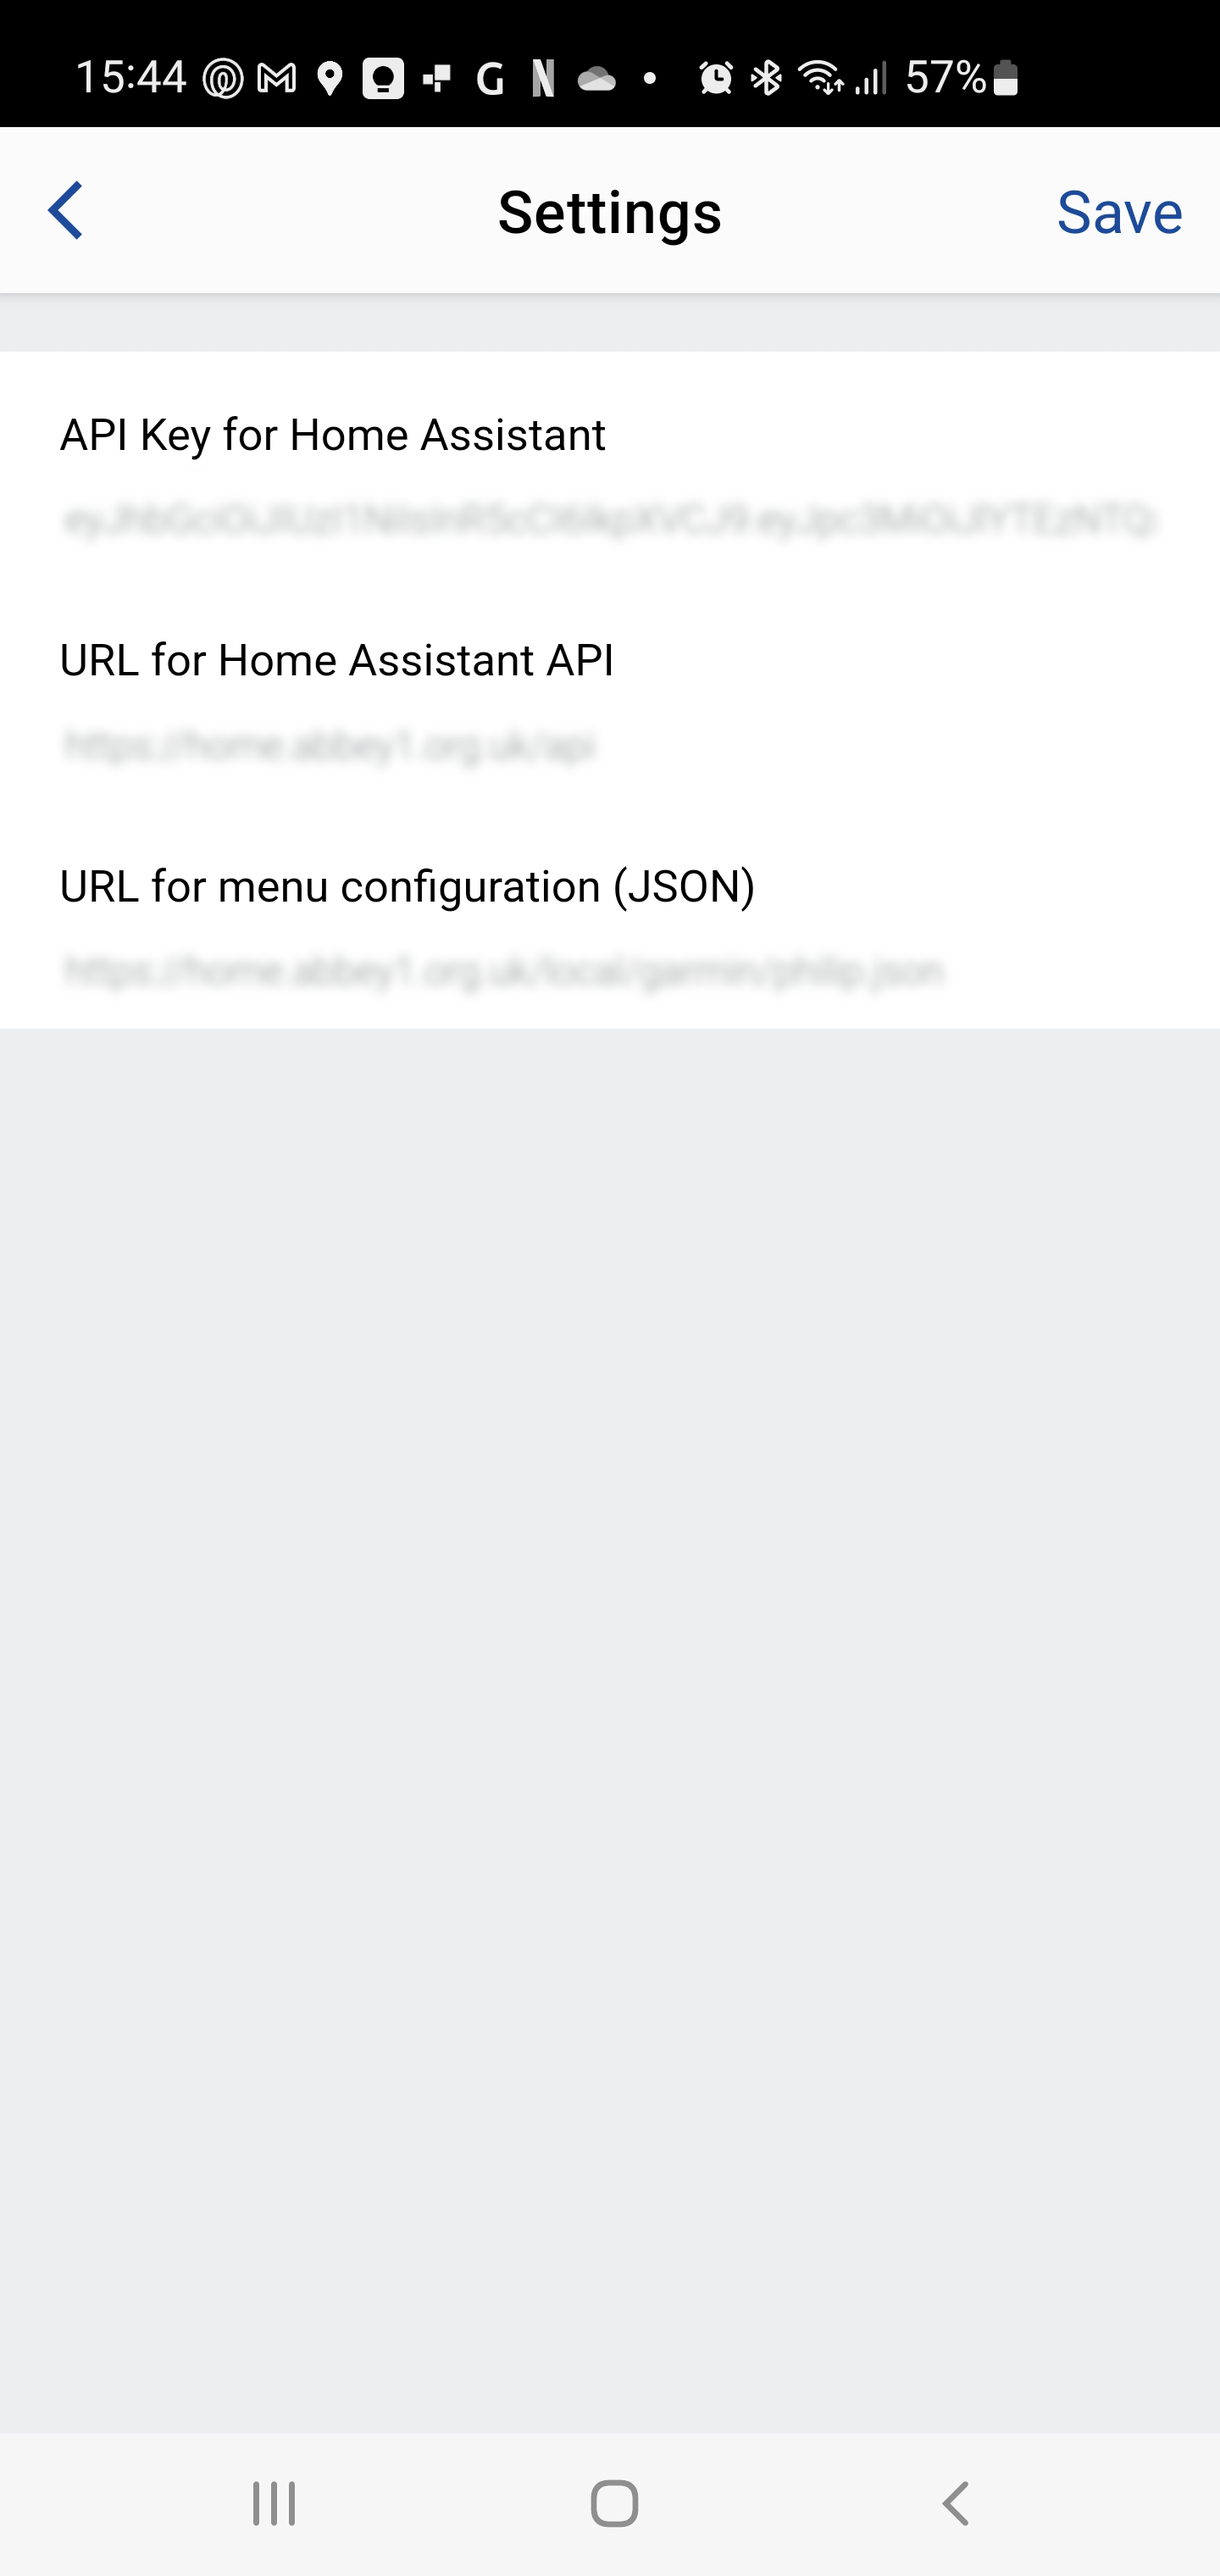
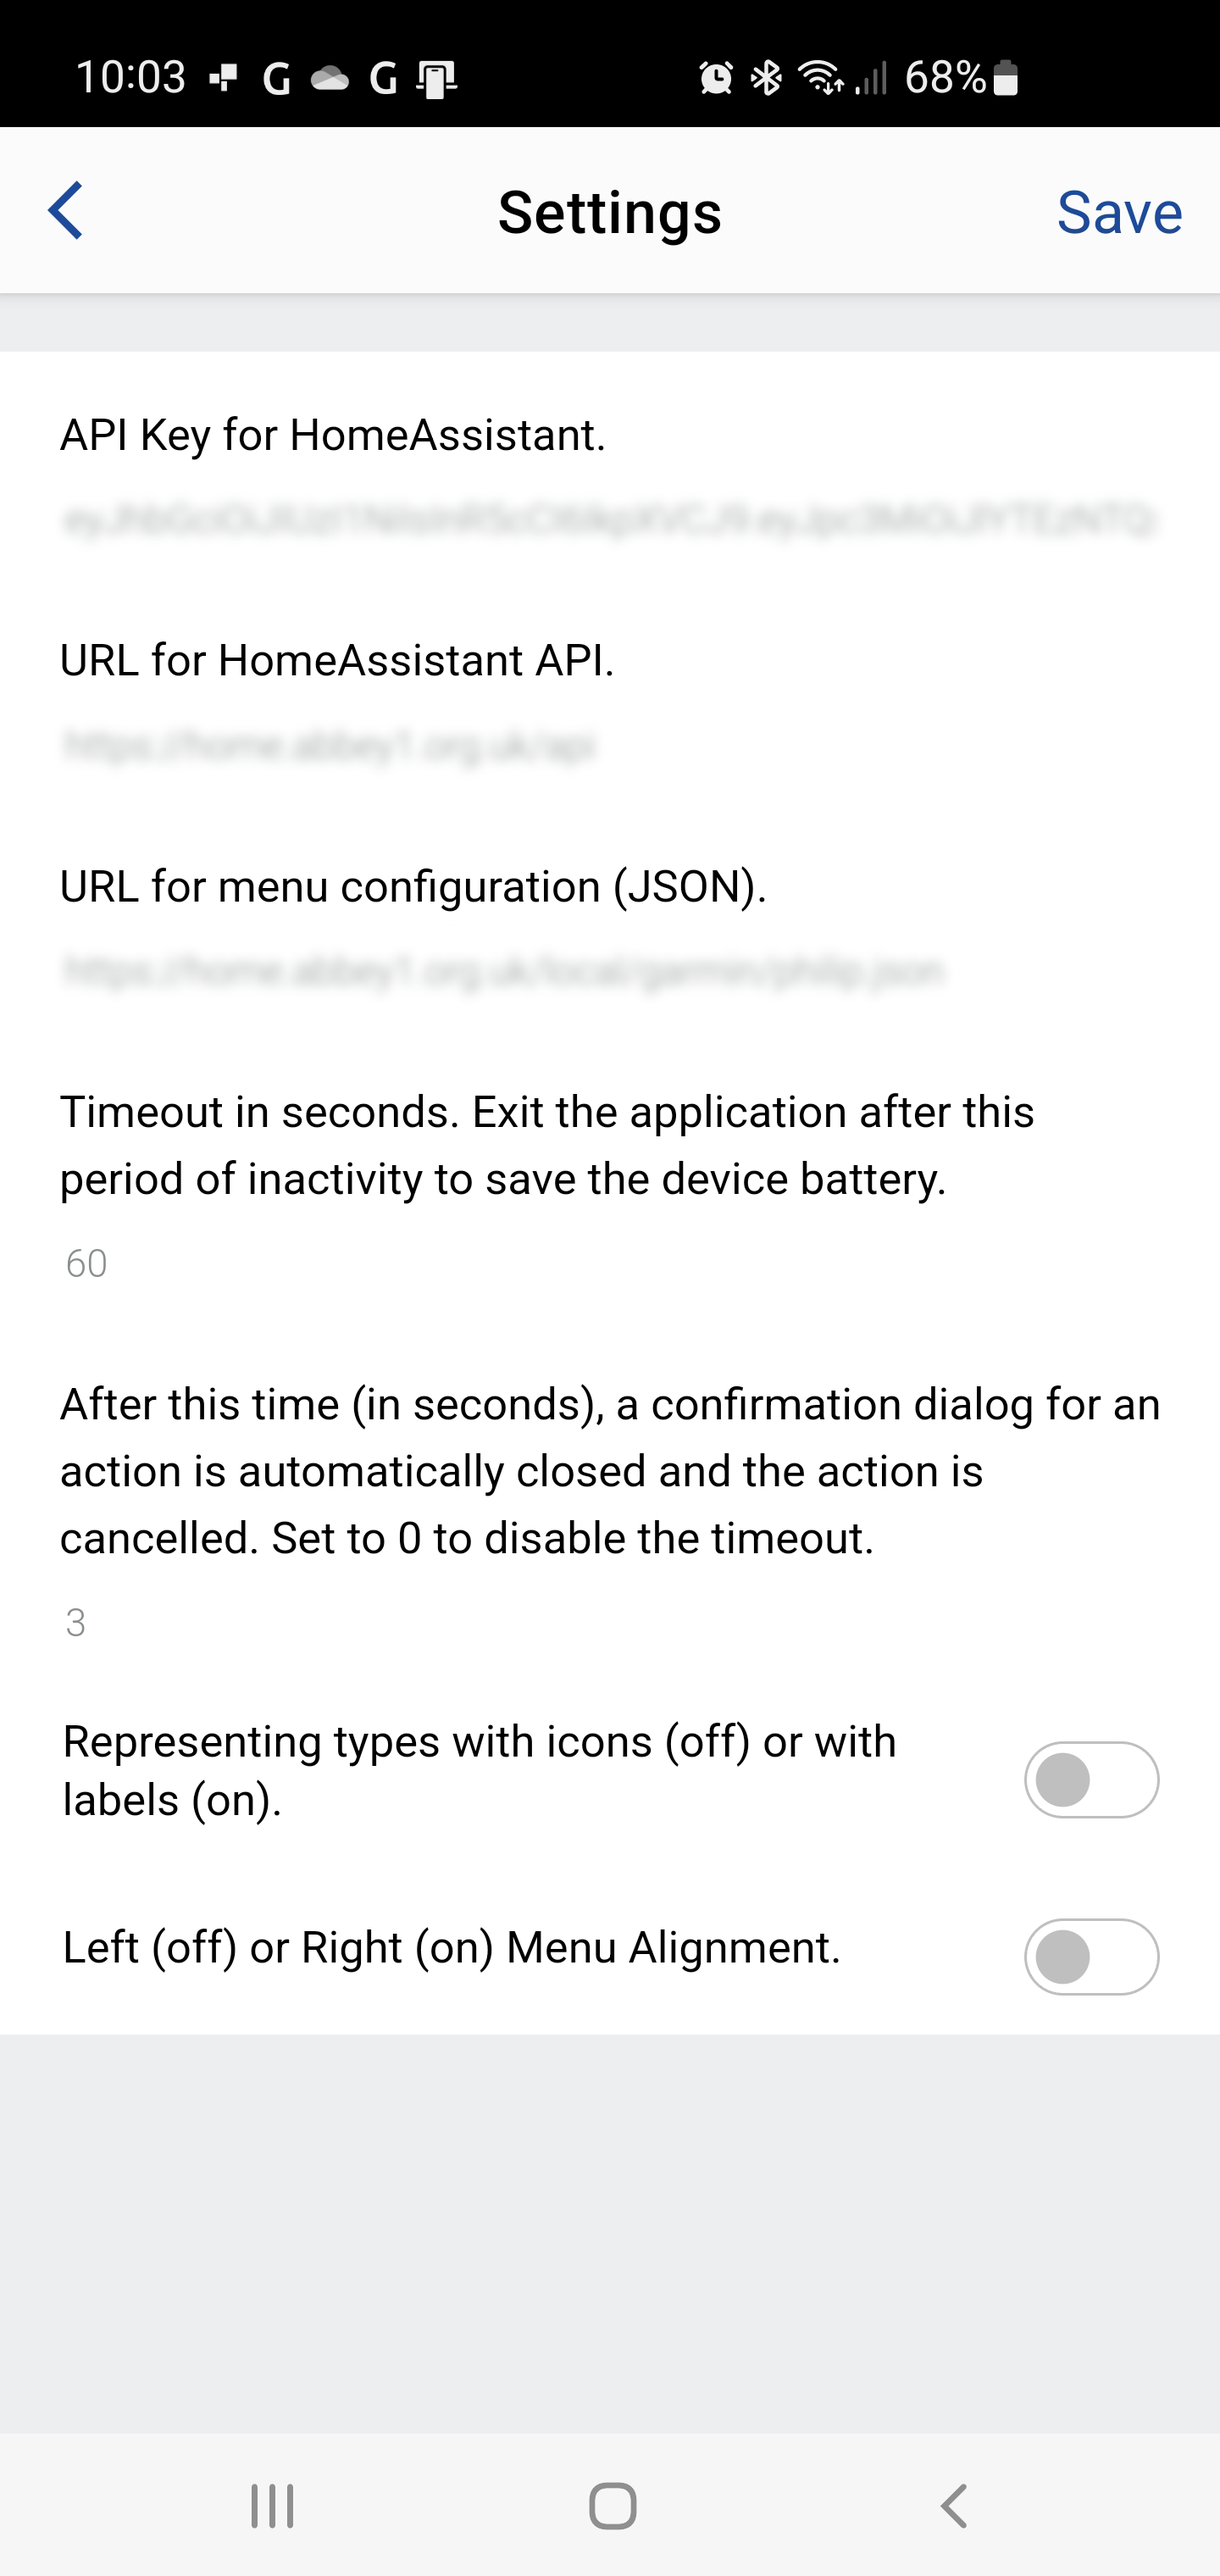
20 new devices and export of widget & application
Added 20 new devices and batch exportation (compilation) of both widget and application. Amended documentation.

diff --git a/README.md b/README.md
@@ -190,6 +190,15 @@ Having created that token, before you dismiss the dialogue box with the value yo
 
 You should now have a working application on your watch and be able to operate your Home Assistant devices for as long as your watch is within Bluetooth range of your phone.
 
+The first toggle option selects between two menu presentations as follows:
+
+| Menu Type       | Image                                                                  | Description |
+|-----------------|------------------------------------------------------------------------|-------------|
+| Icons (default) | <img src="images/Actual_Venu2_LeanUI.jpg" width="200" title="Venu 2"/> | "Lean User Interface" version removing the second row of text in favour of icons. Tap icons are blue with a pointing finger, menu items has three dots as favours by many graphical user interfaces. |
+| Labels          | <img src="images/Actual_Venu2_Theme.jpg" width="200" title="Venu 2"/>  | Initial version that had a second row of text. This extra text has yet to add much value. Menu and Tap actions are distinguished by text, and the toggle status is duplicated by text. A future version could possibly offer the means to customise the toggle menu item text, hence this option has not been deprecated yet. |
+
+The second toggle setting is for "text alignment" and provides finer adjustment for right-to-left languages. Perhaps this could be made automatic based on device language.
+
 ## Tap Item Response
 
 Its obvious that a toggle menu item has been triggered as the visible switch changes position and colour. Less obvious is that you have successfully triggered a tap operation.
@@ -243,3 +252,4 @@ The `id` attribute values are taken from the same names used in [`strings.xml`](
 |   1.5   | <img src="images/confirmation_view.jpg" width="200" title="Confirmation View" style="float:right"/> Added an optional confirmation dialogue view to prevent accidental execution of actions on mistaken tap. This also brings a change in the JSON schema to allow an optional field to specify that the confirmation should be used for a menu item. As we are now maturing and adding features we have decided to mitigate breaking changes to the JSON schema by being more careful to adopt the Home Assistant schema (noting there is a 1:1 mapping between YAML and JSON). This change does deprecate the top level `service` tag in favour of `tag_action` containing multiple fields including `service` & `confirm`. Users should migrate to the new format for the new functionality, but the timescale for actual deprecation are long and undecided. |
 |   1.6   | Added a user configurable 'timeout' in seconds so that when no action is taken the application automatically closes, stopping the continuous polling for changes of status and hence saving the drain on the battery. This can be disabled with timeout=0. |
 |   1.7   | Added timeout to confirmation views so that when used for security devices it does not linger when left unconfirmed. Thanks to [Jan Schneider](https://github.com/j-a-n) for the contribution. Known bug for devices not supporting [`WatchUi.getCurrentView()`](https://developer.garmin.com/connect-iq/api-docs/Toybox/WatchUi.html#getCurrentView-instance_function) API call which is only available on API Level 3.4.0, e.g. Vivoactive 4S. |
+|   2.0   | A significant code base change to enable both a 'widget' version for older devices, e.g. Venu (1), and an application with a glance, e.g. Venu2. These two versions must now be distributed under separate application IDs, but they have the same code base. A further 20 more devices are now supported, and the settings have been internationalised. |
